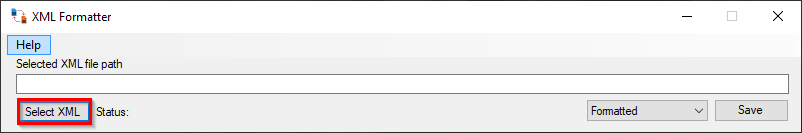
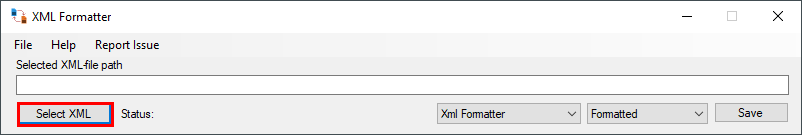
Extending readme file
Adding and changing screenshots

diff --git a/README.MD b/README.MD
@@ -1,8 +1,8 @@
 # XML Formatter
-[![Build status](https://ci.appveyor.com/api/projects/status/od60o55s004tdjnn/branch/master?svg=true)](https://ci.appveyor.com/project/XanatosX/xmlformatter/branch/master)
+![Live build](https://github.com/XanatosX/XmlFormatter/workflows/Live%20build/badge.svg)
+![Latest unstable build](https://github.com/XanatosX/XmlFormatter/workflows/Latest%20unstable%20build/badge.svg)
 [![Codacy Badge](https://api.codacy.com/project/badge/Grade/d82f0208f13547ff890deff9207bb4c4)](https://www.codacy.com/manual/simonaberle/XmlFormatter?utm_source=github.com&amp;utm_medium=referral&amp;utm_content=XanatosX/XmlFormatter&amp;utm_campaign=Badge_Grade)
 [![FOSSA Status](https://app.fossa.com/api/projects/git%2Bgithub.com%2FXanatosX%2FXmlFormatter.svg?type=shield)](https://app.fossa.com/projects/git%2Bgithub.com%2FXanatosX%2FXmlFormatter?ref=badge_shield)
-
 
 This project is a lightweight tool to convert xml files from a flat to a formatted format or the other way round.
 
@@ -15,10 +15,10 @@ You will need the .NET Framework 4.7 or newer installed on your machine. This is
 ### Installation
 
 1. Download the newest zip file from the [Release](https://github.com/XanatosX/XmlFormatter/releases) tab.
-	1. Click on the topmost entry in the list
-	2. Click on the zip file in the `Assets` area
+   1. Click on the topmost entry in the list
+   2. Click on the zip file in the `Assets` area
 2. Unzip the content of the file somewhere on your computer
-	* You do not need the `LICENSE` file.
+   * You do not need the `LICENSE` file.
 3. Start the unzipped `XmlFormatter.exe` file.
 
 This application is portable, just copy the zip content to a portable disk.
@@ -31,37 +31,21 @@ There are different ways to select the file you want to format
 
 #### 1. Use the select button
 
-To "open" an xml file use the `Select XML`
-
-
+To "open" an file use the `Select` button, keep in mind that the text of the button is related to the current converter you do use
 
 ![SelectButton.png](/.github/Screenshots/SelectButton.png)
 
-
-
 This will open up a file selector where you can choose the file for converting
 
-
-
-
-
 ![FileSelector.png](/.github/Screenshots/FileSelector.png)
-
-
 
 #### 2. Write the path to the into the Textbox
 
 You can write the path to the file into the textbox to select it for the formatting task
 
-
-
 ![AddPathToFile.png](/.github/Screenshots/AddPathToFile.png)
 
-
-
-Please make sure that the file is a valid xml file and is located at the path you did provide in the textbox
-
-
+Please make sure that the file is a valid file and is located at the path you did provide in the textbox.
 
 #### 3. Drag the file onto the window
 
@@ -69,13 +53,24 @@ The last option is to simple drag and drop the file into the window, please keep
 
 This will automatically fill the textbox with the correct file path.
 
+### Select the converter
+
+You can select different converter if there are multiple plugins installed into the application.
+
+**Important** If this selection is not visible for you there is only one converter available
+
+![ConverterSelection.png](/.github/Screenshots/ConverterSelection.png)
+
+Changing this setting will change different texts in the GUI. It will change some filters like which files you can select in the background as well.
+Changing this selectbox will change the filetype you can convert.
+
+![JsonExample.png](/.github/Screenshots/JsonExample.png)
+
 ### Select the formatting mode
 
 There are two different modes to format one to flat out the file and one for proper formatting. You can select the mode on the dropdown near the save button.
 
 ![ModeSelection.png](/.github/Screenshots/ModeSelection.png)
-
-
 
 * Formatted -> Format the file in a human readable format
 * Flat -> Flat the file so it will need less space on your disk
@@ -83,6 +78,69 @@ There are two different modes to format one to flat out the file and one for pro
 ### Save the file
 
 To finally save the file just click on the `Save` button. This will load the file into your ram convert it and write it back to the disk. While this action is in progress the window will be locked for other interactions.
+
+### Change the settings
+
+You can change the settings of this application by clicking on `File->Settings`
+
+![OpenSettings.png](/.github/Screenshots/OpenSettings.png)
+
+Do not forget to click on `Save and close` to apply your settings.
+
+### Hotfolder Support
+
+**Important** This functionality is not tested deeply so it is possible that the application will crash or bug out.
+
+The hotfolder support will, if activated, run in the background while the application is started and will try to watch all the configured folders and convert the files as configured.
+
+To use this functionality go to the settings and access the hotfolder tab, check the `Hotfolder active` flag first.
+
+![ActivateHotfolder.png](/.github/Screenshots/ActivateHotfolder.png)
+
+Click on the `Add` button to add a new hotfolder. This will bring up a new window, where you need to select the `provider` (Converter to use) and the `mode` if the files should be converted to flat or formatted.
+
+![GeneralHotfolderSettings.png](/.github/Screenshots/GeneralHotfolderSettings.png)
+
+After adding this information you should add the folder to watch. Keep in mind that the folder should be readable. Best practice is to set a Filter here in case of the xml formatter the filter should be `*.xml`. The output folder is filled automatically but can be changed if needed. It is not possible to select the same output folder as the input folder.
+
+The output file scheme will define how the file will be named after the conversion. At the moment there are the following variables
+
+* `{inputfile}` -> Name of the input file without extension and path.
+* `{format}` -> The format (Formatted, Flat) the file was converted to.
+* `{extension}` -> The extension of the converter.
+
+You can check the additional triggers if you want that the input file is deleted or if the process should be triggered on file rename as well.
+
+## Plugins
+
+**Important** Using plugins of any kind can cause harm to your computer be absolutely sure that the plugin author is trustworthy.
+
+### Install or Remove a Plugin
+
+To install or remove a plugin close the application first. After closing the application navigate to the installation folder.
+
+![InstallationFolder.png](/.github/Screenshots/InstallationFolder.png)
+
+The folder should look like this, you need to open the `Plugins` folder. You can add plugins for this application by dropping them into the folder, don't forget to put in the required dll's as well. To Remove a plugin just delete the dll file and there requirements.
+
+![PluginFolder.png](/.github/Screenshots/PluginFolder.png)
+
+Do not delete the `CorePlugin.dll` if you do not know what you are doing. The application will still start but if there is no replacement it will not function properly.
+
+### View Plugins and Manage there Settings
+
+If you want to take a look which plugins are loaded right now open the plugin manager by clicking on `Help->Plugins`
+
+![OpenPluginManager.png](/.github/Screenshots/OpenPluginManager.png)
+
+If you extend the tree view to the left you will see two root nodes
+
+* Formatter -> Entries listed under this node are converter for files
+* Updater -> Entries listed under this node are updater, those are strategies you can use to update the application.
+
+You can select a plugin in this view to see the details of it, if there are settings available for the plugin there will be an additional tab to the right.
+
+![PluginSelected.png](/.github/Screenshots/PluginSelected.png)
 
 ## Pre-requirements for creating a build
 
@@ -99,13 +157,11 @@ You should fulfill the pre-requirements for these steps first.
 2. Download the NuGet dependencies before compiling. If you IDE is not doing this on loading the project file use `nuget restore` in the root folder
 3. Start the build in your IDE
 
-
 ## Contributions
 
 If you have found a bug or a feature idea feel free to create an issue [here](https://github.com/XanatosX/XmlFormatter/issues). Before you open up a new issue, please search to see if it was already reported. In your issue try to be as detailed as possible.
 
 If you want to contribute fixes or features to this project, please read our [contributors guide](CONTRIBUTING.MD) first.
-
 
 ## Using the Source Code
 
@@ -116,7 +172,3 @@ The full source code and all the required assets are available here on GitHub.
 This project is using the [MIT License](LICENSE).
 
 [![FOSSA Status](https://app.fossa.com/api/projects/git%2Bgithub.com%2FXanatosX%2FXmlFormatter.svg?type=large)](https://app.fossa.com/projects/git%2Bgithub.com%2FXanatosX%2FXmlFormatter?ref=badge_large)
-
-
-
-
